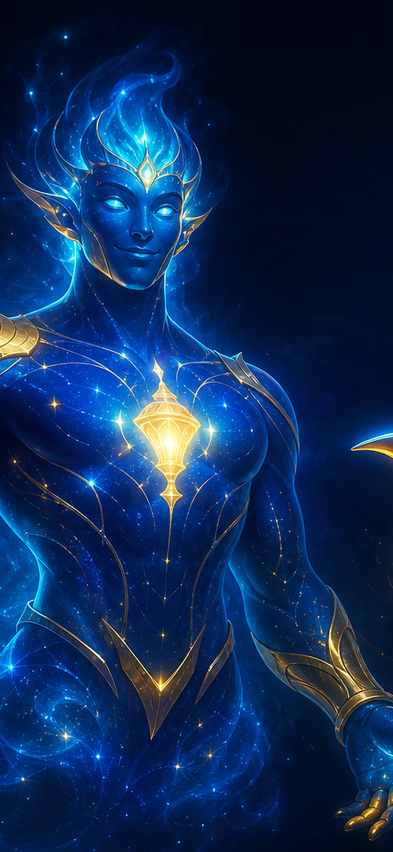
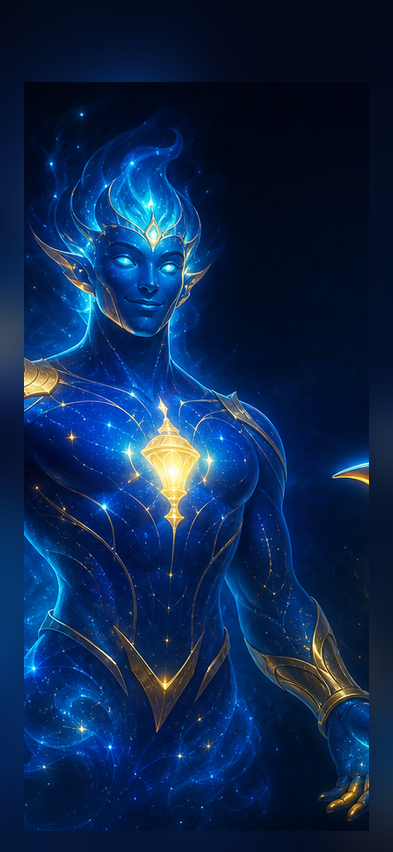
fix(build-200): transparent WORDMARK V2 and onboarding hero full-bleed
- Add OnboardingLogo_V2_Cinematic imageset from Figma WORDMARK_V2 export
- Update OB_00–03 hero PNGs/imagesets with full-bleed and scale/shift fixes
- OnboardingScreen: V2 logo on pages 01/07, loadPages race fix, hero gradients
- Brand/FigmaExports docs and sync_wordmark_v2_transparent.py pipeline

diff --git a/Screens/14_OnboardingScreen.swift b/Screens/14_OnboardingScreen.swift
@@ -1,4 +1,27 @@
 import SwiftUI
+import UIKit
+
+// MARK: - Onboarding logo V2 (transparent wordmark from BrandAssets / Figma WORDMARK_V2)
+
+private struct OnboardingLogoV2View: View {
+    var body: some View {
+        Group {
+            if UIImage(named: "OnboardingLogo_V2_Cinematic", in: .main, compatibleWith: nil) != nil {
+                Image("OnboardingLogo_V2_Cinematic")
+                    .renderingMode(.original)
+                    .resizable()
+                    .scaledToFit()
+            } else {
+                Text(AppConfig.localizedAppMarketingName)
+                    .font(.system(size: 28, weight: .bold, design: .serif))
+                    .foregroundStyle(Color.secondaryGold)
+            }
+        }
+        .frame(maxWidth: 361)
+        .frame(height: 104)
+        .accessibilityLabel(AppConfig.localizedAppMarketingName)
+    }
+}
 
 // MARK: - OnboardingAladdinLogoView Component
 /// 🎨 Стилизованный золотой логотип "Aladdin" в скриптном стиле для онбординга
@@ -92,6 +115,10 @@ struct OnboardingScreen: View {
 
     // ✅ НОВОЕ: Stored property вместо computed для устранения race condition
     // Стартуем не с пустого массива, чтобы исключить гонку первого кадра TabView(.page).
+    /// Защита от параллельных `loadPages()` (onAppear + onChange isReady → EXC_BAD_ACCESS в TabView).
+    @State private var isLoadingPages = false
+    @State private var tabViewContentID = UUID()
+
     @State private var pages: [OnboardingPage] = [
         OnboardingPage(
             icon: "🛡",
@@ -267,26 +294,10 @@ struct OnboardingScreen: View {
     }
 
     @ViewBuilder
-    private func languageStepGlobe() -> some View {
-        let globe = Image(systemName: "globe")
-            .font(.system(size: 56, weight: .light))
-            .foregroundStyle(Color.secondaryGold.opacity(0.9))
-            .accessibilityHidden(true)
-        if accessibilityReduceMotion {
-            globe
-        } else {
-            // Build 198: без TimelineView/spring — меньше нагрузки на main thread при старте.
-            globe.scaleEffect(1.02)
-        }
-    }
-
-    @ViewBuilder
     private func languageStepView() -> some View {
         ZStack {
             VStack(spacing: Spacing.xl) {
             Spacer(minLength: 12)
-
-            languageStepGlobe()
 
             Text(languageStepTitle(for: selectedLanguageForOnboarding))
                 .font(.system(size: 22, weight: .bold))
@@ -347,23 +358,25 @@ struct OnboardingScreen: View {
     }
 
     // ✅ НОВОЕ: Функция безопасной загрузки страниц с fallback
+    @MainActor
     private func loadPages() {
+        guard !isLoadingPages else { return }
+        isLoadingPages = true
+        defer { isLoadingPages = false }
+
         print("🔄 OnboardingScreen.loadPages: Starting, localizationManager.isReady = \(localizationManager.isReady)")
-        do {
-            if localizationManager.isReady {
-                // Попытка загрузить полные страницы
-                pages = try createFullPages()
-                print("✅ OnboardingScreen: Successfully loaded \(pages.count) full pages")
-            } else {
-                // Fallback к минимальным страницам
-                pages = createMinimalPages()
-                print("⚠ OnboardingScreen: Localization not ready, using \(pages.count) minimal pages")
-            }
-        } catch {
-            // Graceful degradation - используем минимальные страницы
-            pages = createMinimalPages()
-            print("❌ OnboardingScreen: Error loading pages: \(error.localizedDescription), using \(pages.count) minimal pages")
+
+        let nextPages: [OnboardingPage]
+        if localizationManager.isReady {
+            nextPages = createFullPages()
+            print("✅ OnboardingScreen: Successfully loaded \(nextPages.count) full pages")
+        } else {
+            nextPages = createMinimalPages()
+            print("⚠ OnboardingScreen: Localization not ready, using \(nextPages.count) minimal pages")
         }
+
+        pages = nextPages
+        tabViewContentID = UUID()
         clampCurrentPageIfNeeded()
         applyStoredLanguageSkipIfNeeded()
     }
@@ -382,13 +395,10 @@ struct OnboardingScreen: View {
         }
     }
 
-    // ✅ Создание полных страниц (может выбросить ошибку)
-    private func createFullPages() throws -> [OnboardingPage] {
-        guard localizationManager.isReady else {
-            throw OnboardingError.localizationNotReady
-        }
-
-        return [
+    // ✅ Создание полных страниц (только с MainActor — см. loadPages)
+    @MainActor
+    private func createFullPages() -> [OnboardingPage] {
+        [
             // Страница 1: Защита всей семьи
             OnboardingPage(
                 icon: "🛡",
@@ -437,7 +447,7 @@ struct OnboardingScreen: View {
                 title: safeLocalized("onboarding_page7_title"),
                 description: safeLocalized("onboarding_page7_desc"),
                 color: Color.green
-            )
+            ),
         ]
     }
 
@@ -531,7 +541,7 @@ struct OnboardingScreen: View {
                 .modifier(OnboardingHeroRTLFlipModifier(isRTL: layoutDirection == .rightToLeft))
                 .accessibilityHidden(true)
 
-            HeroBottomReadableGradient(strong: currentPage == 0)
+            HeroBottomReadableGradient(strong: currentPage == 0 || currentPage == 2 || currentPage == 3)
                 .ignoresSafeArea()
 
             // ✅ ВАРИАНТ 1: Показываем онбординг сразу, без проверки готовности локализации
@@ -666,6 +676,7 @@ struct OnboardingScreen: View {
                             .tag(tabIndex)
                     }
                 }
+                .id(tabViewContentID)
                 .tabViewStyle(.page(indexDisplayMode: .never))
                 .frame(maxWidth: .infinity, maxHeight: .infinity)
                 .accessibilityElement(children: .contain)
@@ -941,10 +952,13 @@ struct OnboardingScreen: View {
                     VStack(spacing: Spacing.l) {
                         Color.clear.frame(height: Spacing.xl)
 
+                        OnboardingLogoV2View()
+                            .padding(.bottom, Spacing.s)
+
                         VStack(spacing: Spacing.m) {
                             Text(page.title)
                                 .font(.system(size: 26, weight: .bold))
-                                .foregroundColor(.secondaryGold)
+                                .foregroundColor(.white)
                                 .multilineTextAlignment(.center)
                                 .lineLimit(2)
                                 .minimumScaleFactor(0.7)
@@ -972,7 +986,7 @@ struct OnboardingScreen: View {
                     Spacer(minLength: Spacing.xxl)
 
                     if contentIndex == 0 {
-                        OnboardingAladdinLogoView(size: 36, showSubtitle: false)
+                        OnboardingLogoV2View()
                             .padding(.bottom, Spacing.s)
                     }
 

diff --git a/scripts/sync_wordmark_v2_transparent.py b/scripts/sync_wordmark_v2_transparent.py
@@ -1,0 +1,42 @@
+#!/usr/bin/env python3
+"""Sync WORDMARK V2 transparent PNGs into Xcode imageset and FigmaExports.
+
+Source of truth:
+  Resources/BrandAssets/ALADDIN_AI_V2_Logo/WORDMARK_V2_transparent_figma_1x*.png
+
+Figma (manual / MCP upload):
+  EXPORT_WORDMARK_V2_transparent (185:53) → WORDMARK_V2_raster (185:54)
+  OB_01 WORDMARK_V2 (88:53), OB_07 WORDMARK_V2 (168:53)
+"""
+from __future__ import annotations
+
+import shutil
+from pathlib import Path
+
+ROOT = Path(__file__).resolve().parents[1]
+BRAND = ROOT / "Resources/BrandAssets/ALADDIN_AI_V2_Logo"
+XC = ROOT / "Assets.xcassets/OnboardingLogo_V2_Cinematic.imageset"
+FIG_OB01 = ROOT / "Resources/FigmaExports/OB_01"
+
+PAIRS = [
+    ("WORDMARK_V2_transparent_figma_1x.png", "OnboardingLogo_V2_Cinematic@1x.png"),
+    ("WORDMARK_V2_transparent_figma_1x@2x.png", "OnboardingLogo_V2_Cinematic@2x.png"),
+    ("WORDMARK_V2_transparent_figma_1x@3x.png", "OnboardingLogo_V2_Cinematic@3x.png"),
+]
+
+
+def main() -> None:
+    FIG_OB01.mkdir(parents=True, exist_ok=True)
+    XC.mkdir(parents=True, exist_ok=True)
+    for src_name, dst_name in PAIRS:
+        src = BRAND / src_name
+        if not src.exists():
+            raise SystemExit(f"Missing source: {src}")
+        shutil.copy2(src, XC / dst_name)
+        shutil.copy2(src, FIG_OB01 / src_name)
+        print(f"OK {src_name} -> imageset + FigmaExports/OB_01")
+    print("Done. Upload WORDMARK_V2_transparent_figma_1x.png to Figma nodes 185:54, 88:53, 168:53 (FIT).")
+
+
+if __name__ == "__main__":
+    main()

diff --git a/docs/ONBOARDING_FIGMA_FRAME_CHECKLIST.md b/docs/ONBOARDING_FIGMA_FRAME_CHECKLIST.md
@@ -36,7 +36,7 @@
 | Готово | Имя фрейма (предложение) | Экран | Экспорт героя в Xcode | Что внутри auto-layout (кратко) |
 |:------:|--------------------------|-------|------------------------|----------------------------------|
 | ✓ | `OB_00_Language_393x852` | Язык | **OnboardingHero_00** | Сохранён: `Resources/FigmaExports/OB_00/`. QA Figma ✅; Xcode — в конце. |
-| ✓ | `OB_01_Family_393x852` | Семья | **OnboardingHero_01** | B1; V2 logo `BLOCK_aladdin_logo` **361×104** @ (16,484) FIT; title y=598, desc y=656; `FigmaExports/OB_01/BLOCK_aladdin_logo_V2_master.png`. |
+| ✓ | `OB_01_Family_393x852` | Семья | **OnboardingHero_01** | B1; V2 **WORDMARK_V2** `88:53` **361×104** @ (16,484) FIT, прозрачный PNG `WORDMARK_V2_transparent_figma_1x.png`; title y=598, desc y=656. |
 | ☐ | `OB_02_AI_393x852` | ИИ | **OnboardingHero_02** | **Дух «Пробуждение»** (не человек, не единорог); zone `OnboardingHero_02_figma_zone_361x460.png`; QA **§E-IMG**; node `103:53` / hero `103:54`. |
 | ☐ | `OB_03_Parents_393x852` | Родители | **OnboardingHero_03** | **Страж**; zone v2 `crop_w=1050` `height_frac=0.82` (см. `ONBOARDING_OB_03_EXPORT_LOG.md`); Figma ✅; Продукт ☐; node `108:53`/`108:54`. |
 | ☐ | `OB_04_Radar_393x852` | Аналитика | **OnboardingHero_04** | Figma ✅ `117:53`/`117:54`; космос радар; QA `ONBOARDING_OB_04_05_06_FIGMA_QA.md`. |
